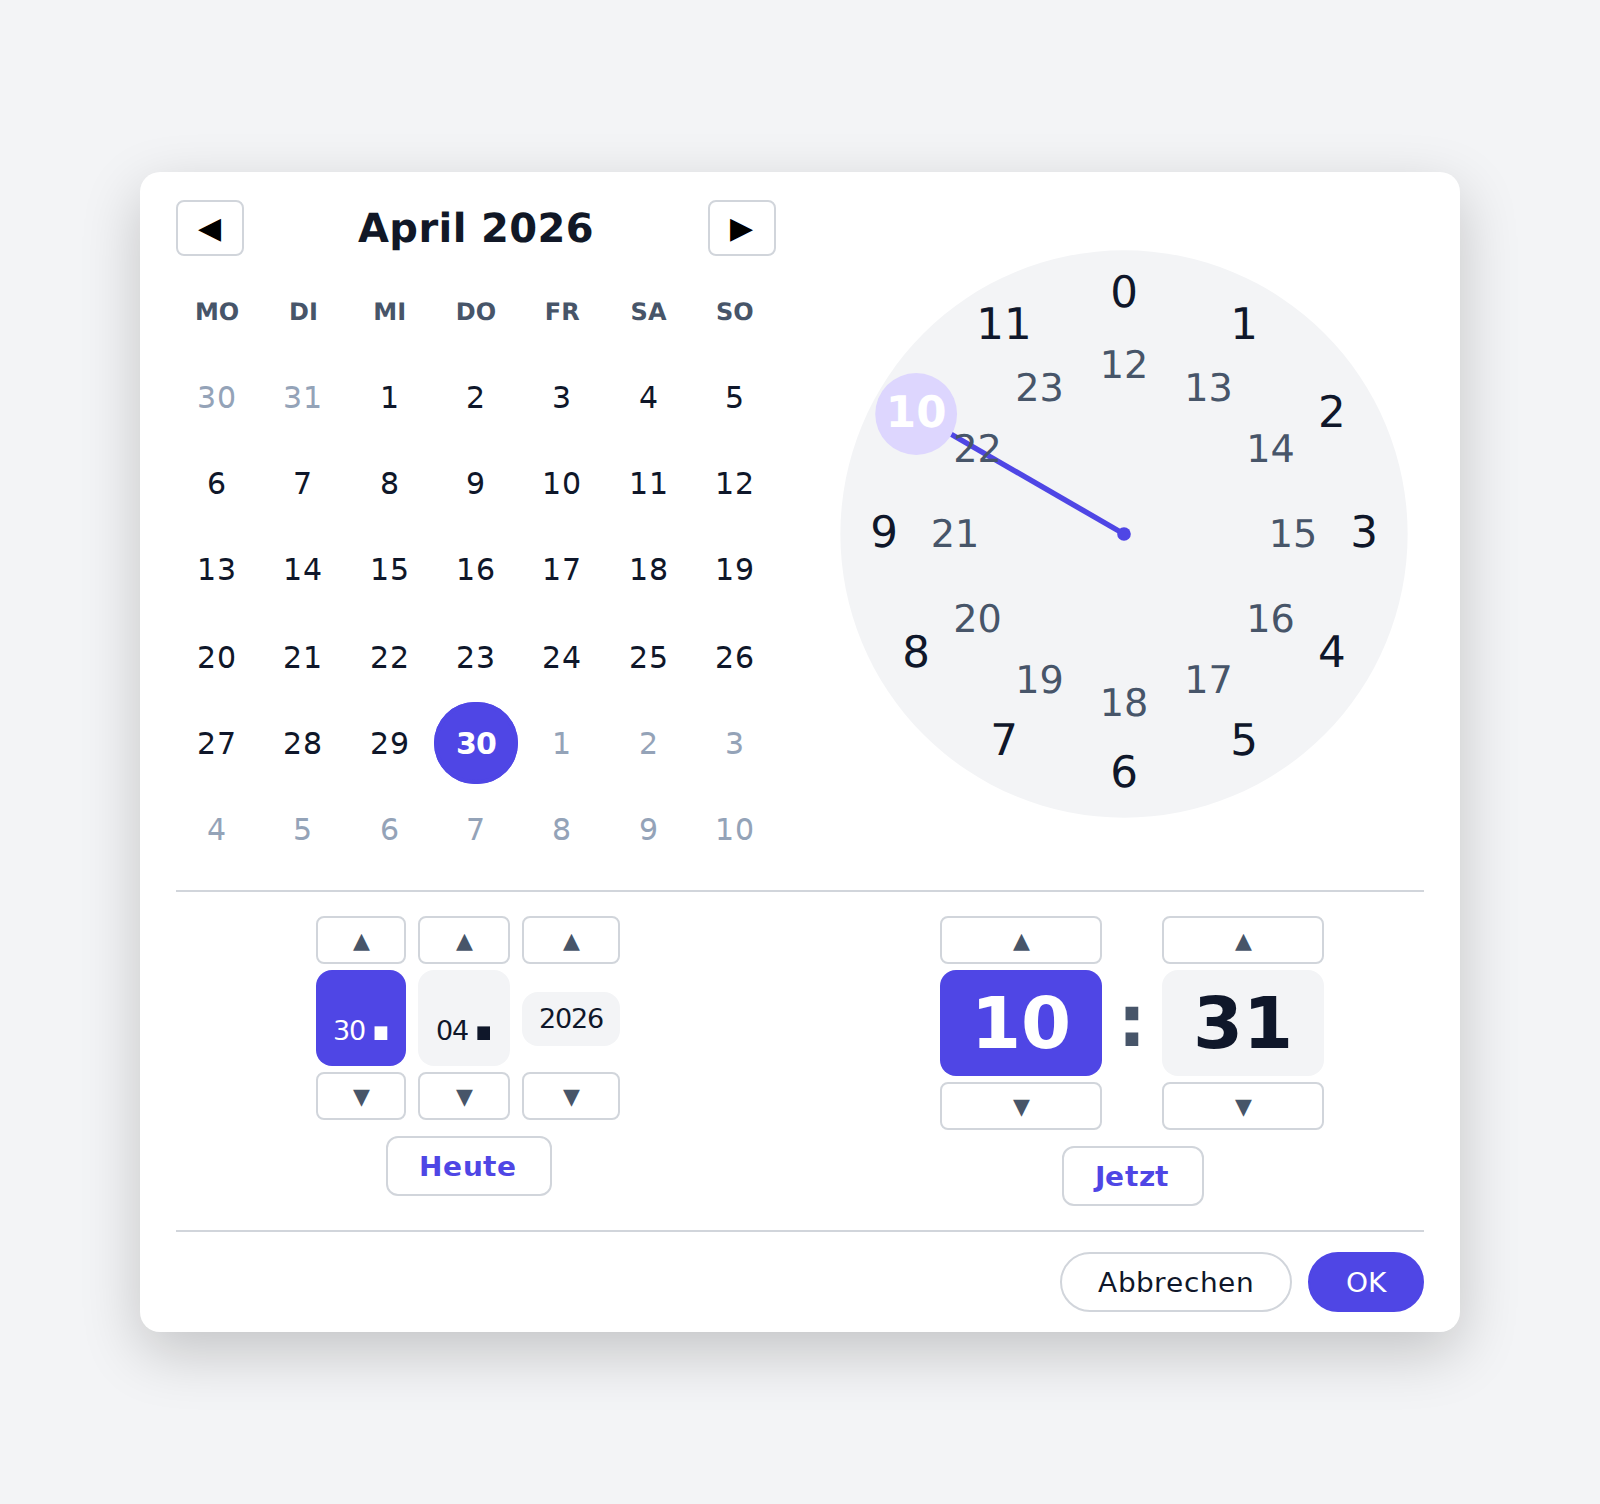
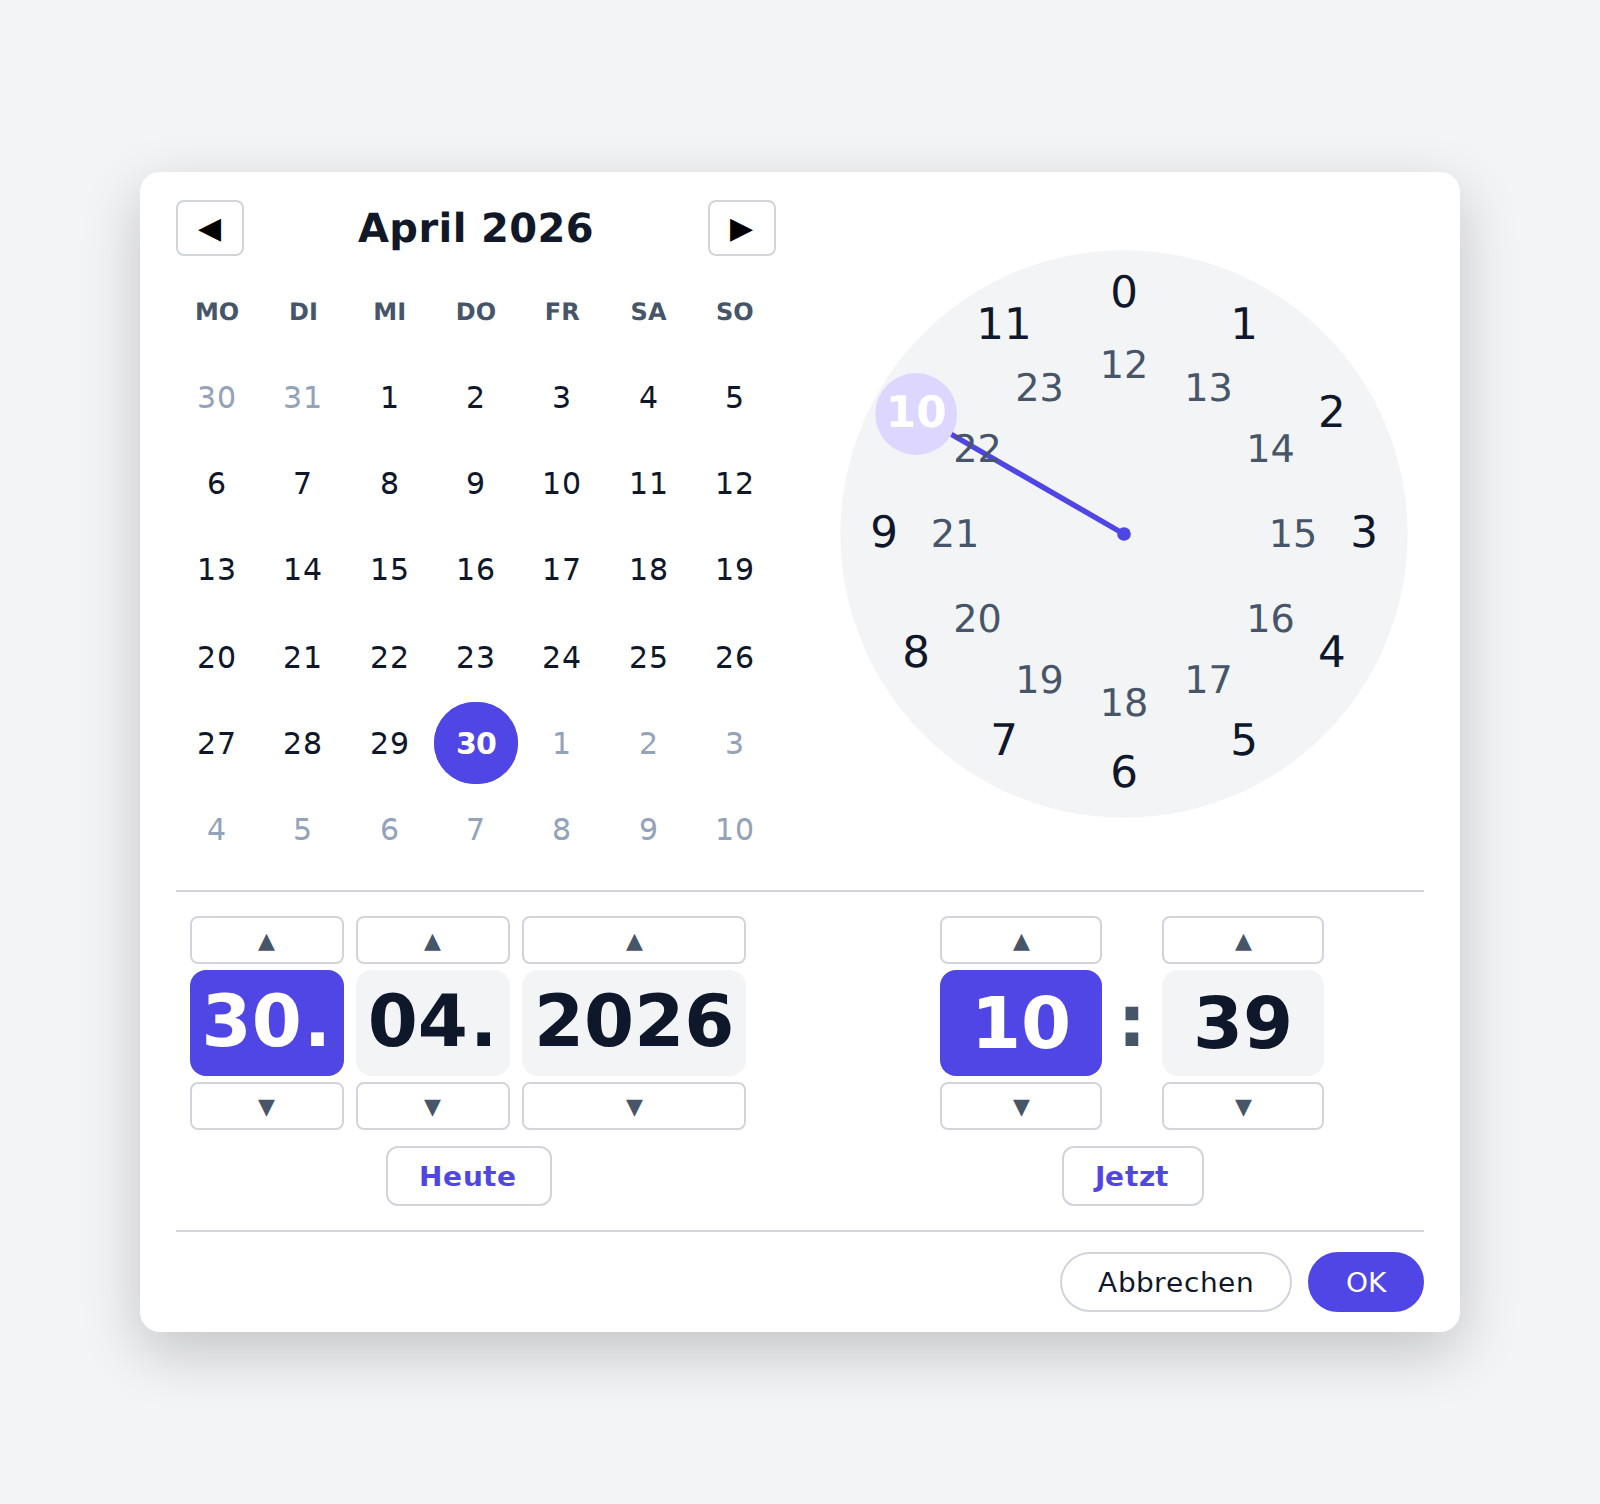
fix(css): make .dtp-num-input self-sufficient, drop host-app dependency
The component CSS for the day / month / year numeric inputs assumed a
global `input { font: inherit }` reset existed in the host app
(an inline comment even named the assumption explicitly). Standalone
that reset isn't there, so the input fell back to the browser's
default ~13 px UA font while the surrounding label / suffix used
.dtp-num-box's clamp(28 px, …, 38 px). Net result: tiny digits
sandwiched between huge "." separators, chips squashed to half size.

Adding `font: inherit` directly on .dtp-popup .dtp-num-input forces
the input to pick up the parent .dtp-num-box's font-size + family +
weight regardless of the host page. The component now renders
correctly whether it's embedded in the Ratenverabreichung shell or
opened as a standalone HTML.

font-variant-numeric still set explicitly because it isn't covered by
the `font` shorthand.

Demo screenshot refreshed.

Changed region(s): [[0.0938, 0.625, 0.4688, 0.8125], [0.7812, 0.6562, 0.8125, 0.7188]]

diff --git a/index.html b/index.html
@@ -270,9 +270,12 @@
 }
 
 .dtp-popup .dtp-num-input {
-  /* font-* (family/size/weight/line-height) inherited via the global
-     `input { font: inherit }` rule. font-variant-numeric is not part of
-     the `font` shorthand, so it must be set explicitly. */
+  /* font-* (family/size/weight/line-height) come from the .dtp-num-box
+     parent. We force inheritance here so the component works whether or
+     not the host app has a global `input { font: inherit }` reset.
+     font-variant-numeric is not part of the `font` shorthand, so it
+     must be set explicitly. */
+  font: inherit;
   font-variant-numeric: tabular-nums;
   color: inherit;
   background: transparent;

diff --git a/src/DateTimePicker.css b/src/DateTimePicker.css
@@ -263,9 +263,12 @@
 }
 
 .dtp-popup .dtp-num-input {
-  /* font-* (family/size/weight/line-height) inherited via the global
-     `input { font: inherit }` rule. font-variant-numeric is not part of
-     the `font` shorthand, so it must be set explicitly. */
+  /* font-* (family/size/weight/line-height) come from the .dtp-num-box
+     parent. We force inheritance here so the component works whether or
+     not the host app has a global `input { font: inherit }` reset.
+     font-variant-numeric is not part of the `font` shorthand, so it
+     must be set explicitly. */
+  font: inherit;
   font-variant-numeric: tabular-nums;
   color: inherit;
   background: transparent;
